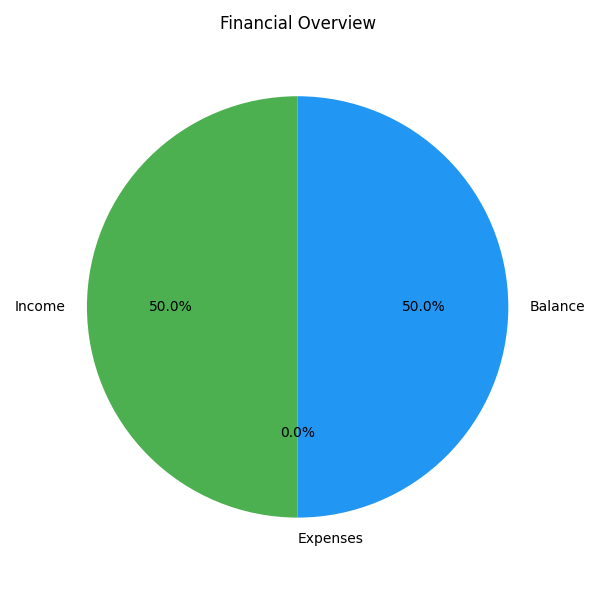
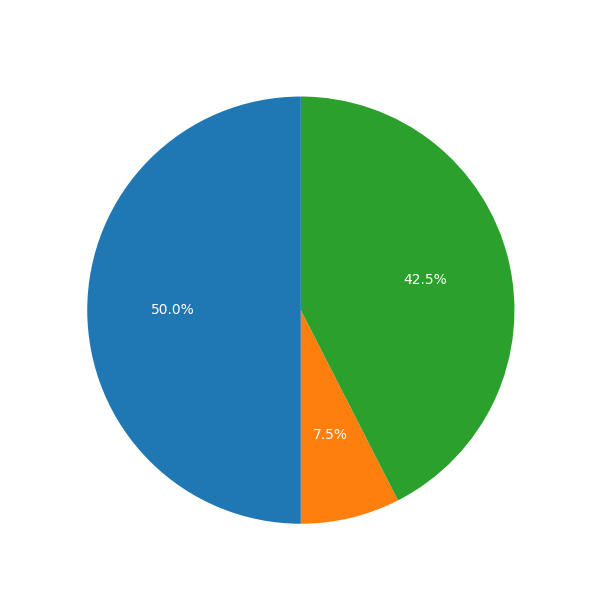
MVP is ready wallet_details template ready for use, json files work as expected

diff --git a/static/styles.css b/static/styles.css
@@ -1,4 +1,10 @@
 /* static/styles.css */
+@import url('https://fonts.googleapis.com/css2?family=Quicksand&display=swap');
+
+* {
+    font-family: 'Quicksand', sans-serif;
+}
+
 body {
     background-color: #121212;
     color:#ffffff;
@@ -277,25 +283,37 @@ tr:hover {
     margin-top: 10px;
 }
 
+
+
 body.details-page {
-    background-color: #2c3e50;
-    color: #ecf0f1;
+    background-color: #FFC4D1;
+    color: #463440;
+    font-family: 'Quicksand', sans-serif;
 }
 
 .wallet-message {
-    color: #2ecc71;
+    color: #BE8E89;
     font-weight: bold;
     margin-bottom: 10px;
 }
 
+.typewriter {
+    color: #BE8E89;
+    font-size: 1.1rem;
+    animation: typewriter 3s steps(44) 1 normal both;
+}
+
 .typewriter p {
-    font-family: 'Courier New', Courier, monospace;
-    font-size: 1.2rem;
-    white-space: nowrap;
-    overflow: hidden;
-    border-right: 2px solid #ecf0f1;
-    width: 0;
-    animation: typing 2s steps(40, end) forwards;
+    color: #463440;
+}
+
+.typewriter p strong {
+    color: #BE8E89;
+}
+
+@keyframes typewriter {
+    from { width: 0 }
+    to { width: 100% }
 }
 
 .typewriter p:nth-child(2) { animation-delay: 0.5s; }
@@ -303,7 +321,34 @@ body.details-page {
 .typewriter p:nth-child(4) { animation-delay: 1.5s; }
 .typewriter p:nth-child(5) { animation-delay: 2s; }
 
-@keyframes typing {
-    from { width: 0; }
-    to { width: 100%; }
+.navbar-2 {
+    position: fixed;
+    top: 0;
+    left: 0;
+    width: 100%;
+    background-color: #F9DCE4;
+    padding: 10px 20px;
+    box-shadow: 0 4px 6px rgba(0, 0, 0, 0.1);
+    z-index: 1000;
 }
+
+.navbar-2 ul {
+    margin: 0;
+    padding: 0;
+    list-style: none;
+    display: flex;
+    gap: 20px;
+}
+
+.navbar-2 a {
+    color: #5F5F5F;
+    text-decoration: none;
+    font-weight: bold;
+    transition: color 0.3s;
+}
+
+.navbar-2 li a:hover {
+    color: #AA4A6D;
+}
+
+

diff --git a/templates/wallet_details.html b/templates/wallet_details.html
@@ -9,7 +9,7 @@
     </head>
     <body class=" details-page">
 
-    <nav class="navbar">
+    <nav class="navbar-2">
         <ul>
             <li><a href="{{ url_for('dashboard') }}">Home</a></li>
             <li><a href="{{ url_for('income_expenses') }}">Income/Expenses</a></li>
@@ -27,7 +27,7 @@
   
 {% if not personal_details %} 
              
-<form method=" POST" action="{{ url_for('edit_wallet_details') }}" class="form-section"> 
+<form method="POST" action="{{ url_for('wallet_details') }}" class="form-section"> 
     <input type="text" name="wallet_name" placeholder="Enter wallet name" required>
     <input type="text" name="name" placeholder="Enter your name" required>
     <input type="email" name="email" placeholder="Enter your email" required>
@@ -46,11 +46,11 @@
 </div>
 
 <form method="POST" action="{{ url_for('edit_wallet_details') }}" class="form-section">
-    <input type="text" name="Wallet_name" placeholder="Update wallet name">
-    <input type="text" name="Name" placeholder="Update your name">
-    <input type="email" name="Email" placeholder="Update your email">
-    <input type="text" name="Phone" placeholder="Update your phone number">
-    <input type="text" name="Job" placeholder="Update your job title">
+    <input type="text" name="wallet_name" placeholder="Update wallet name">
+    <input type="text" name="name" placeholder="Update your name">
+    <input type="email" name="email" placeholder="Update your email">
+    <input type="text" name="phone" placeholder="Update your phone number">
+    <input type="text" name="job" placeholder="Update your job title">
     <button type="submit">Update Details</button>
 </form>
 {% endif %}

diff --git a/templates/income_expenses.html b/templates/income_expenses.html
@@ -16,14 +16,14 @@
         <li><a href="{{ url_for('income_expenses') }}">Income/Expenses</a></li>
         <li><a href="{{ url_for('subscriptions') }}">Subscriptions</a></li>
         <li><a href="{{ url_for('financial_targets') }}">Financial Goals</a></li>
-        <li><a href="#">Wallet Details</a></li>
+        <li><a href="{{ url_for('wallet_details') }}">My Wallet</a></li>
     </ul>
 </nav>
 
         <div class="dashboard-container">
             <h1>Track your finances</h1>
             {% if request.args.get('message') %}
-    <div class="subscription-message">{{ request.args.get('message') }}</div>
+    <div class="message">{{ request.args.get('message') }}</div>
 {% endif %}
 
 

diff --git a/charts.py b/charts.py
@@ -1,25 +1,26 @@
 import matplotlib.pyplot as plt
 import os
 
-def generate_pie_chart(income, expenses, balance, output_path= 'static/images/pie_chart.png'):
-    """  Generate a pie chart showing income, expenses, and balance for the dashboard. 
-    Parameters:
-        income (int or float): Total income amount.
-        expenses (int or float): Total expenses amount.
-        balance (int or float): Remaining balance amount.
-        output_path (str): Path to save the generated pie chart image.
-    """
+def create_pie_chart(income, expenses, balance):
+    """Create a pie chart and save it as an image with transparent background."""
+    labels = ['Income', 'Expenses', 'Balance']
+    sizes = [income, expenses, balance]
 
-    os.makedirs(os.path.dirname(output_path), exist_ok=True)
-    labels= ['Income', 'Expenses', 'Balance']
-    sizes= [income, expenses, balance]
-    colors= ['#4CAF50', '#F44336', '#2196F3']  # Green for income, red for expenses, blue for balance
-    explode= (0.1, 0, 0)  # Explode the income slice for emphasis
+    # Avoid division by zero
+    if sum(sizes) == 0:
+        sizes = [1, 1, 1]
 
-    plt.figure(figsize=(6, 6))
-    plt.pie(sizes, labels=labels, colors=colors, autopct= '%1.1f%%', startangle=90)
-    plt.title('Financial Overview')
-    plt.axis('equal')  # Equal aspect ratio ensures that pie chart is a circle.
+    fig, ax = plt.subplots(figsize=(6, 6), facecolor='black')  #Black background for the chart
+    wedges, texts, autotexts = ax.pie(
+        sizes,
+        labels=labels,
+        autopct='%1.1f%%',
+        startangle=90,
+        textprops={'color': 'white'}
+    )
+    ax.set_title("Financial Overview", color='white')
+    ax.axis('equal')
+
     plt.tight_layout()
-    plt.savefig(output_path)
-    plt.close()  # Close the plot to free up memory
+    plt.savefig("static/images/pie_chart.png", transparent=True)  # Transparent background at PNG
+    plt.close()

diff --git a/main.py b/main.py
@@ -1,9 +1,16 @@
 from flask import Flask, render_template, request, redirect, url_for
 import functionality
-from charts import generate_pie_chart
+from charts import create_pie_chart as generate_pie_chart
 
 # Create a Flask application instance
 app = Flask(__name__)
+
+functionality.load_incomes_from_json()  # Load incomes from JSON file
+functionality.load_expenses_from_json()  # Load expenses from JSON file
+functionality.load_repeating_incomes_from_json()  # Load repeating incomes from JSON file
+functionality.load_subscriptions_from_json()  # Load subscriptions from JSON file
+functionality.load_personal_details_from_json()  # Load financial targets from JSON file
+
 
 @app.route('/')
 def home():
@@ -212,17 +219,19 @@ def wallet_details():
 
         
 
-@app.route('/edit_wallet_details', methods=['POST', 'GET'])
+@app.route('/edit_wallet_details', methods=['POST'])
 def edit_wallet_details():
     """ Edit the existing wallet details. """
-    for key in functionality.personal_details:
-        if request.form.get(key): # Check if the form has a value for the key
-            # Update the personal details with the new values from the form
-            functionality.personal_details[key] = request.form[key].strip().lower()
-    # Save the updated personal details to JSON
+    keys = ["Wallet Name", "Name", "Email", "Phone", "Job"]
+    for field in keys:
+        html_field = field.lower().replace(" ", "_")
+        value = request.form.get(html_field)
+        if value:  #only update if the field is provided
+            functionality.personal_details[field] = value.strip().lower()
 
     functionality.save_personal_details_to_json()
     return redirect(url_for('wallet_details', message="Wallet details updated successfully!"))
+
 
 
 

diff --git a/functionality.py b/functionality.py
@@ -357,13 +357,21 @@ def load_repeating_incomes_from_json():
 
 def load_personal_details_from_json():
     """Load personal details from a JSON file."""
+    global personal_details
     try:
         with open('personal_details.json', 'r') as file:
-            global personal_details
-            personal_details = json.load(file)
+            data = json.load(file)
+            if isinstance(data, dict):
+                personal_details = data
+            else:
+                personal_details = {}
         print("Personal details loaded from personal_details.json")
     except FileNotFoundError:
         print("No personal details file found. Starting with an empty personal details dictionary.")
+        personal_details = {}
+        save_personal_details_to_json()  # Create an empty file if it doesn't exist
+
+
 
 
 def remove_income_testing_function():
